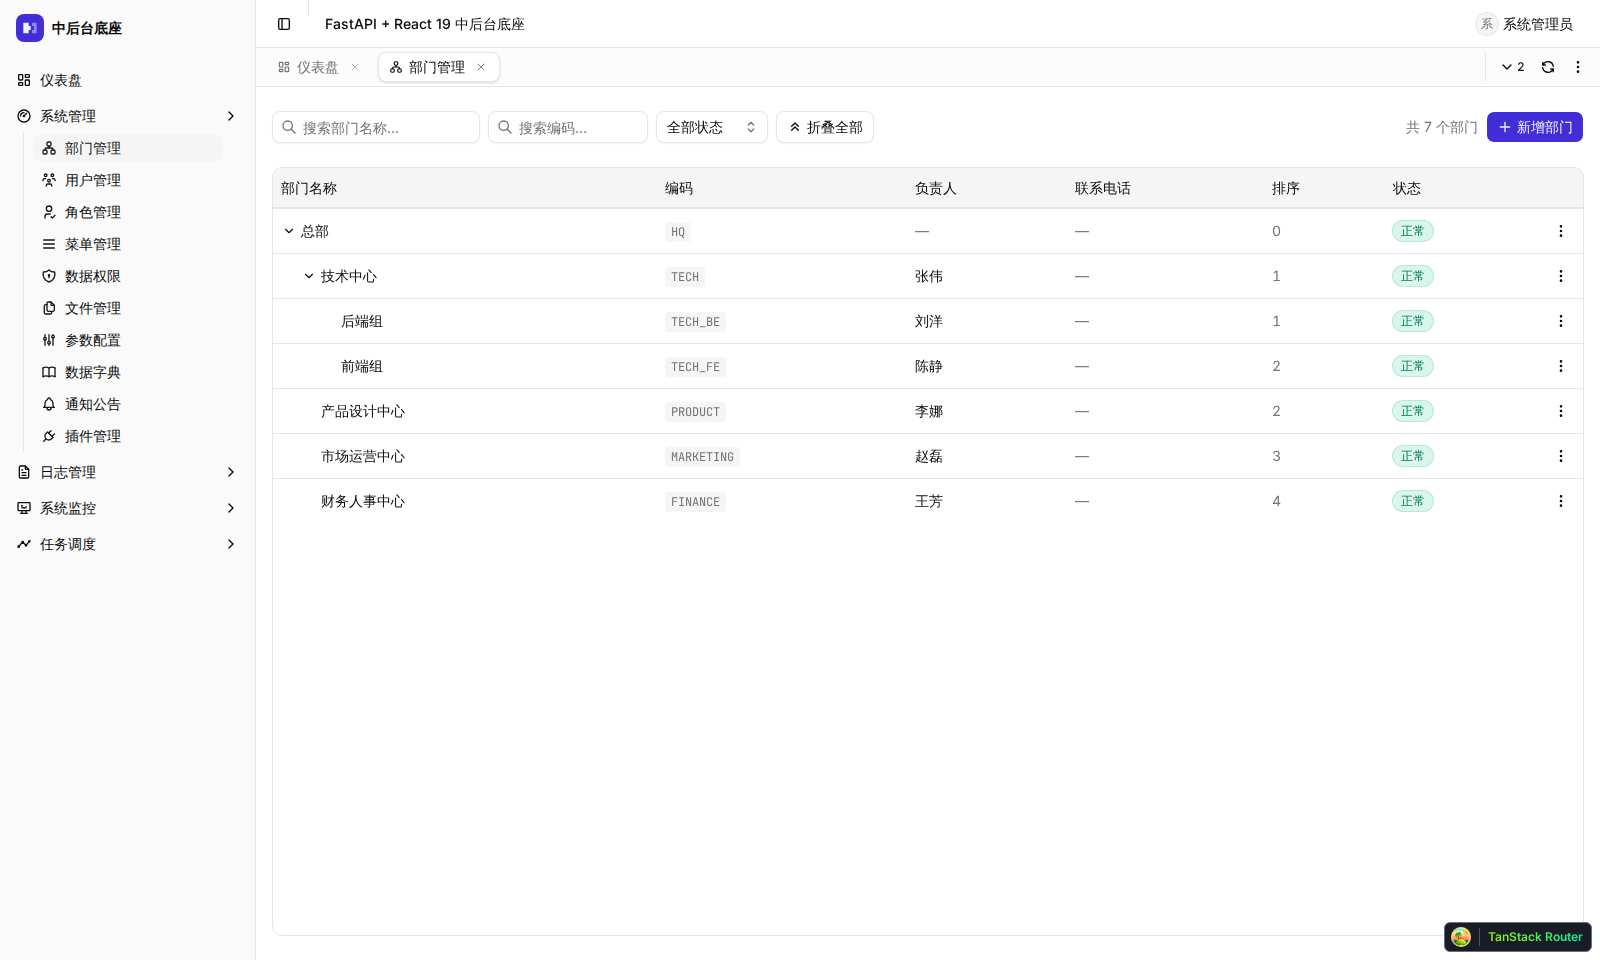
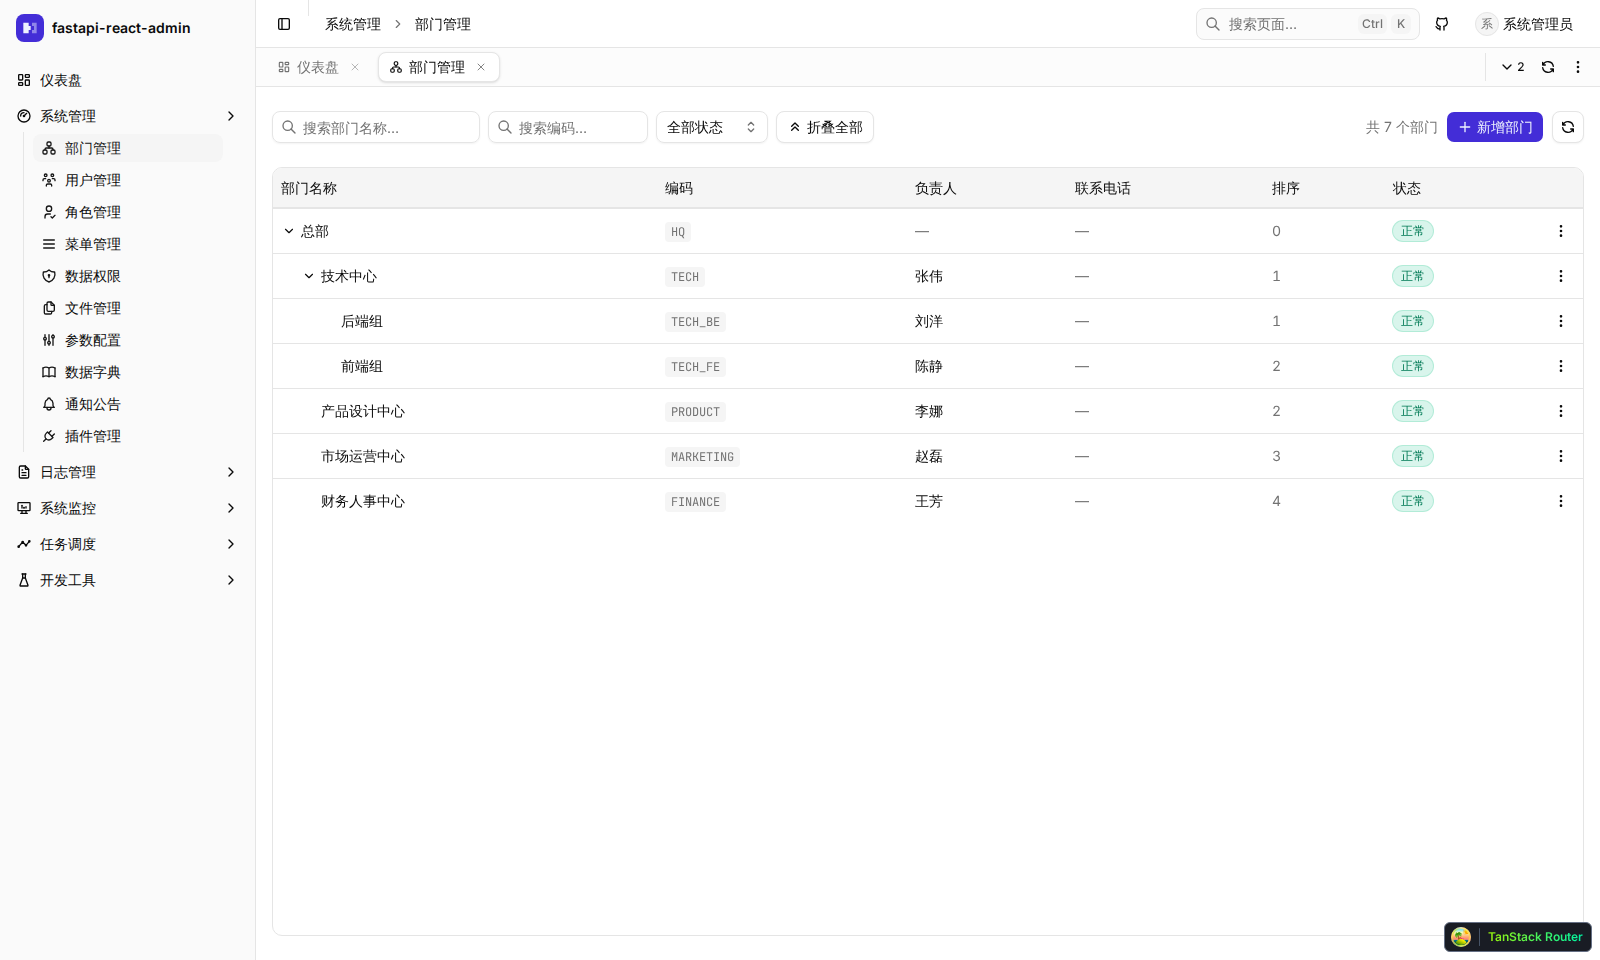
docs: README 截图重拍 + E2E 报告加视频 (#48)
* docs: README 截图重拍——两天前的旧截图，品牌名/侧边栏都过时了

用隔离的 fba_test 库（干净种子数据，不是随手截的开发库）重新走一遍
dashboard → 部门管理 → 角色管理 → 数据权限 这条演示路径，四张图一起换新。

旧截图停在 08-25，之后合过的几个改动让画面对不上了：
- 品牌名从「中后台底座」改回 fastapi-react-admin（顶栏标题、侧边栏都露了旧名）
- #46 修了组件沙箱侧边栏没入口的问题——旧图侧边栏压根没有「开发工具」这一组
- #37/#38 给列表页加了刷新按钮

feat(e2e): 播放失败用例的视频——video 只配了 trace/screenshot，没配这一项

和 trace/screenshot 同一套取舍：只保留失败用例的视频（retain-on-failure），
通过的不录、不占 CI 产物体积。

* fix(ci): 重跑 job 会把 github-pages artifact 传出两份，deploy-pages 直接炸

实测复现：main 上 #46 那次 E2E 先挂了、重跑 playwright · E2E 后，pages-report
job 在同一个 run_id 下又跑了一次 attempt——upload-pages-artifact 不管来源，
每次都无条件新建一份叫 github-pages 的 artifact，两次 attempt 各留一份，
deploy-pages 一读到 2 份同名的就报错退出：
`Multiple artifacts named "github-pages" were unexpectedly found for this
workflow run. Artifact count is 2.`

upload-pages-artifact@v3 没暴露 overwrite 参数（硬编码 false，翻它的 action.yml
确认过），传之前没法覆盖，只能自己先把这次 run 里同名的旧 artifact 用 API 删掉——
不管这是第几次 attempt，永远先清干净再传。

顺手把 playwright-report 那份也加了 overwrite: true——这次凑巧没触发下载报错
（download-artifact 找到了当次 attempt 那份，没被旧的撞到），但同一个坑理论上
一样能在这份 artifact 上炸，显式覆盖比赌运气稳。

* docs(readme): 加 E2E 报告链接 + 测试数字追平实际（44→54，183 是撞车的旧值）

## 展示 E2E 报告

顶部徽章加一个「E2E 报告」，点开是 https://yilecoding.github.io/fastapi-react-admin/——
main 上每次 CI 跑完自动刷新的 Playwright 报告，不是某次快照。「起服务」那节的
`pnpm e2e` 命令旁边也点一句，说清楚这个链接是干嘛的。

## 测试数字

顺手核对了一遍全文出现的测试条数，发现两处问题：

- Playwright 从上次统计时的 44 条涨到了 54 条——中间加了 command-palette /
  list-error / list-refresh / new-version / session-tabs 五个文件，每个 2 条，
[…]

diff --git a/apps/web/e2e/playwright.config.ts b/apps/web/e2e/playwright.config.ts
@@ -33,6 +33,8 @@ export default defineConfig({
     baseURL: `http://127.0.0.1:${WEB_PORT}`,
     trace: "retain-on-failure",
     screenshot: "only-on-failure",
+    // 和 trace/screenshot 同一套取舍：只留失败用例的视频，通过的不录、不占产物体积。
+    video: "retain-on-failure",
   },
 
   projects: [{ name: "chromium", use: { ...devices["Desktop Chrome"] } }],
